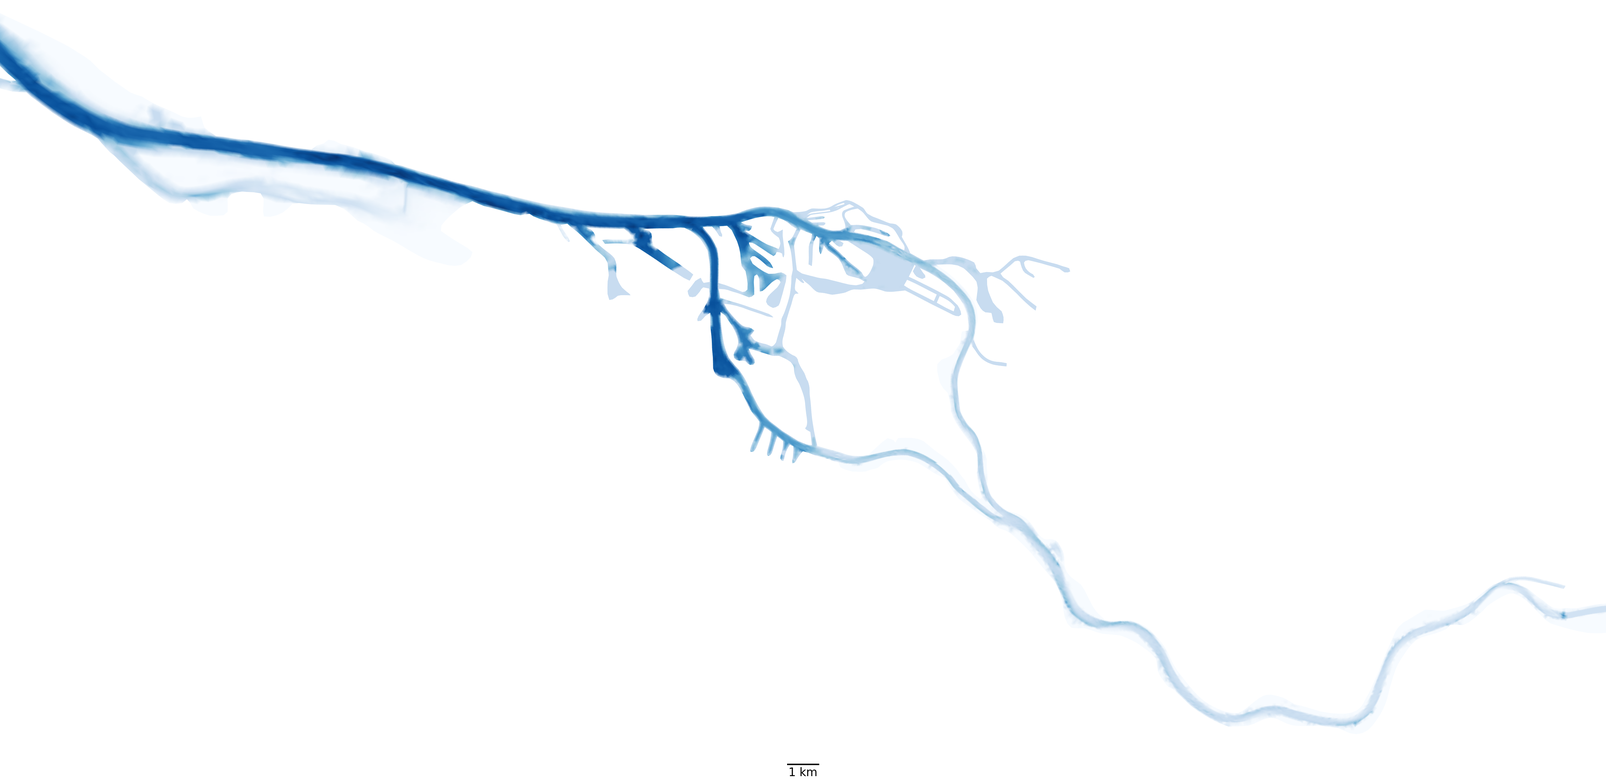
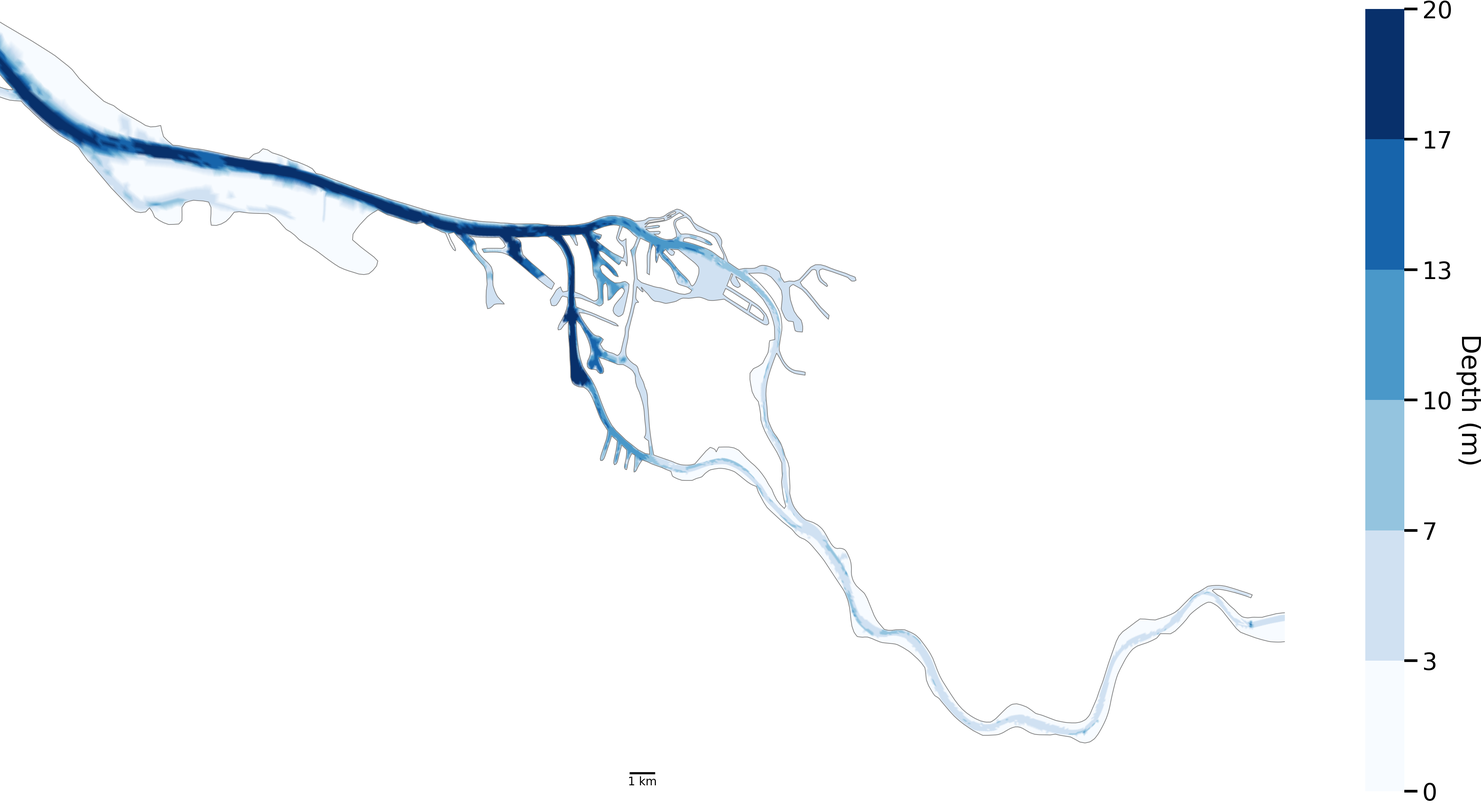
draft sent to ross

Changed region(s): [[0.0, 0.0, 1.0, 0.9272]]

diff --git a/main_text.tex b/main_text.tex
@@ -1,14 +1,14 @@
-
 \section*{Introduction}
 %------------------------------------------------------------------------------
 %------------------------------------------------------------------------------
 
 % \subsection*{Estuaries and Phytoplankton}
 
-\texttt{Add a short paragraph as an outlook/summary of the paper.}
+\texttt{Add a short paragraph as an outlook of the paper? I was told thats what the cool kids do but I feel like thats already in the abstract.}
+
 
 Estuaries are important both for the climate system as well as for anthropogenic use.
-From a climate perspective they are highly productiv relative to their surface area 
+From a climate perspective they are highly productive relative to their surface area 
 which results in large amounts of direct carbon cycling 
 along with their important role as a source of nutrients and hatching grounds for marine ecosystem. (cite)
 They are also strongly anthropogenically influenced through e.g. harbors, diking, dredging, fishing and pollution which can be seen as a stressor on the ecosystem but it also adds an anthropogenic dependency on the ecosystem. (cite)
@@ -56,12 +56,26 @@ While they showed that upstream reseeding is conceptually possible they did so i
 Whether this is an actual realized phenomenon depends on the topology and hydrodynamic of the estuary.
 Nevertheless, it has been shown that both "outgrowing the losses" and "reseeding" are possible retention mechanism under certain conditions.
 
-In (cite) they use a \textbf{particle tracking model} also known as Lagragian model to study Zooplankton movement in the San Francisco Bay.
+In (cite) they use a particle tracking model also known as Lagragian model to study Zooplankton movement in the San Francisco Bay.
 They were able to show  that sinking and diel migration slows the outwashing process and might be beneficial retention tactic.
-However, they did so by ignoring key processes like reproduction, mortality and any stranding or sedimentation processes in an low resolution structured grid model \texttt{specify low-res?}.
+However, they did so by ignoring key processes like reproduction, mortality and any stranding or sedimentation processes in an low resolution structured grid model.
 
+We are examining the Elbe estuary as a case study.
+Like most alluvial estuaries it is relatively flat.
+Similar to other European estuaries it experienced a strong anthropogenic pressure over the last centauries.
+Most notably diking to restrain it to a narrow channel and dreading to improve access to the Hamburg harbor.
+Unlike other major european harbors, the Hamburg harbor is located far inwards roughly 100km away from the coast.
+This causes the river to experience a sudden jump in bathymetry from 5m at border of the city to almost 20m in the harbor (see fig. \ref{fig:bathymetry}). 
+This bathymetric jump is suspected to be the cause of a collapse of the phytoplankton biomass causing an increase in oxygen depletion and high ammonium reminaralization after the bathymetric jump. (cite)
+While major aspects of the along-channel biochemical dynamics have been studied little is known regarding their vertical and shore-to-shore dynamics.
 
-To \textbf{summarize} - several concepts for potential retention mechanisms have been found
+\begin{figure}
+    \includegraphics[width=\columnwidth]{harbor.png}
+    \caption{Bathymetry of the Elbe model around Hamburg. Note the bathymetric jumps from ~5m on the right, upstream side to a short 10m step in the upper harbor area to the ~20m in the lower harbor area all the way to the north sea. Also note that there exists no channel that does not pass through the 10km long exclusively 20m deep area. }
+    \label{fig:bathymetry}
+\end{figure}
+
+To summarize - several concepts for potential retention mechanisms have been found
  and shown to work in certain conditions.
 However, all approaches used major simplification which didn't allow them to study the full picture.
 We developed a new and more realistic approach to study retention using a particle tracking model.
@@ -79,103 +93,91 @@ We examine if such a system can reproduce phytoplankton retention in the Elbe es
 
 \subsubsection*{Particle tracking}
 
-In our study we take a particle tracking approach with a \textbf{lagrangian model} called Oceantracker (cite).
+In our study we take a particle tracking approach with a lagrangian model called Oceantracker (cite).
 Particle tracking offers several advantages for our question:
 While particle tracking on unstructured grids has been relatively computationally expensive until recently (cite).
 it allows us to reuse already validated hydrodynamic models.
-Reusing already computed hydrodynamical models to study tracer like objects with an Lagrangian model  is overall much faster then recalculating the advection-diffusion-equation in an Eularian model.
+Reusing already computed hydrodynamical models to study tracer like objects with an Lagrangian model  is overall much faster than recalculating the advection-diffusion-equation in an Eularian model.
 
 Additionally, because we are simulating individually particles we are able to observe their tracks.
 This makes it much easier and intuitive to interpret the results and allows us to include individual based properties and processes.
 
-\begin{figure}
-    \includegraphics[width=\columnwidth]{Artboard 2.png}
-    \caption{Particle trackl visualisation}
-\end{figure}
-
-\subsubsection*{Data}
-We use the hydrodynamics \textbf{data} of the most recent SCHISM model (cite Johannes Pein).
-It is an three dimensional unstructured  grid model representing the full Elbe estuary from the weir at Geesthacht close to Helgoland including side-channels and the harbor.
+\subsubsection*{Hydrological model}
+We use the hydrodynamics data of the most recent SCHISM model (cite Johannes Pein).
+It is an three dimensional unstructured  grid model representing the full Elbe estuary from the weir at Geesthacht close to Helgoland including side-channels and the harbor (see fig. \ref{fig:model_domain}). 
 % (Look for more details in pein paper that might be interesting)
-It provides a node-based mesh field containing a range of information.
+The model provides a node-based mesh field containing a range of information.
 Most important for our purpose is the water velocity.
 But also salinity, water level, dispersion and many other more technical properties are used (See appendix \texttt{not yet added})
 The year represented in that dataset is 2012 with 1h temporal- and dynamically varying spacial resolution with a median distance between nodes of $\sim60m$.
 
 \begin{figure}
-    \includegraphics[width=\columnwidth]{dfg_foto_wettbewerbg_laurin_legendless_steidle.png}
-    \caption{model domain visualization - full range grid including statistical polygons for later reference and example of a scalar field (e.g. temperature)}
-    \label{fig:statistial polygons}
+    \includegraphics[width=\columnwidth]{dfg_foto_wettbewerbg_laurin_legendless_steidle_small.png}
+    \caption{Map of the full model domain with Geesthacht being the upstream boarder on the right and the Northsea being the downstream edge on the top left. The gray outline indicates the edge of the model domain. Blue and green dots show an example snapshot of a phytoplankton distribution in the model. Blue being floating, green being stranded particles.}
+    \label{fig:model_domain}
 \end{figure}
 
-\subsubsection*{Particle processes}
+\subsubsection*{Particle based processes}
 
-On top of the "blank" particle we add a set of textbf{biological features} to achieve a more realistic behavior.
+On top of the "blank" particle we add a set of biological features to achieve a more realistic behavior.
 The most important one is their ability to reproduce by creating copies of themselves.
-We also remove them under certain biologically unfavorable conditions. Specifically when they are stranded on the shore, starved for light or float in high salinity waters for too long (see appendix).
+This is represented as a constant chance of duplicating a particle.
+We also remove them under certain biologically unfavorable conditions. Specifically when they are stranded on the shore, starved for light or float in high salinity waters for too long.
+More precisely, they are removed if either of the following criteria is met: 
+When they reach high salinity waters implemented as a mortality chance $1\%$ every minute.
+of  in fixed intervals above $10$PSU.
+When they are stranded outside of the water and lie dry for more then $7$ consecutive days.
+When they are starved for light which is represented as a budget of $14$ days 
+where energy is lost in a fixed rate in low-light and gained in high light areas.
+
 A set of vertical movement features is added to model migration behavior. 
-These include a constant vertical velocity i.e. sinking and rising and a diel-migration pattern where they move up and down depending on the phase of the sun.
+This is implemented in two modes. 
+One being a constant vertical velocity i.e. sinking and rising
+The second being diel-migration where they move up and down depending on the phase of the sun.
 A large area of the estuary is very shallow with average water depths of below one meter. 
 We include a simple sedimentation and resuspension model to represent stranding by the tide and also sedimentation model for the water column where resupension is depending on a critical sheer velocity (see appendix).
 
+Particles are stranded and temporarily stuck in place when they cross a model boundary or when their current cell falls dry. 
+Particle are resuspended from the bottom based on a critical sheer velocity model.
+If they are stranded they resuspend as soon as there location is flooded again.
+
+The model also implements dynamic dispersion that is crucial to represent tidal-pumping processes and to allow for more realistic trajectories.
+
 \subsection*{Experimental configurations}
-
-% \begin{figure}
-%     \includegraphics[width=\columnwidth]{plot experimental configuration.pdf}
-%     \caption{2d grid with boxes for the different cases/dimension. 
-%              Same structure as the later sensitivity analysis plot used \ref{fig:retention_results_SA}}
-%     \label{fig:experimental_configuration}
-% \end{figure}
-
 
 The first experiment of this study examines retention success under different scenarios.
 The general idea is to release a population of plankton at the upstream end of the estuary represented by the weir in Geesthacht
 and examine how the population distrubutes itself over the estuary and whether it is able to maintain its population size.
-With this approach we study the effect of several mechanism in a sensitivity analysis. These include reproduction and migration:
-\textit{Reproduction} represented as a chance of duplicating a particle,
-\textit{vertical migration} where two modes have been implemented. 
-A constant up or downward drift and diel migration where the drift speed and direction is based on the phase of the sun.
-The particle \textit{stranding and resuspension} as well as \textit{suspend and resuspension to and from the bottom}
- based on a critical-friction-velocity model.
-Particles are removed if either of the following criteria is met: 
-When they reach high salinity waters implemented as a mortality chance in fixed intervals above $10 PSU$ (see appendix).
-When they are stranded outside of the water and lie dry for more then $7$ consecutive days.
-When they are starved for light which is represented as a budget of $14$ days 
-where energy is lost in a fixed rate in low-light and gained in high light areas.
-The model also implements dynamic dispersion that is crucial to represent tidal-pumping processes 
-and to allow for a realistic trajectories close to boundaries.
+% With this approach we study the effect of two retention mechanism in a sensitivity analysis. These being reproduction and migration.
 
 The initial particle batch that is representing our phytoplankton population is released at the beginning of the year in a volume at the weir in Geesthacht which marks the beginning of the Estuary.
 We evaluate their retention success by counting the amount of plankton in different regions in the estuary over time.
 If the population is growing at the end of the year we consider them "successfully retained".
-Population changes are measured at the end of the year relative to the population size after after an initial spin up time of three months where most of the initial batch has been washed out and the population typically is at its minimum.
-
+Population changes are measured at the end of the year relative to the population size after after an initial spin up time of three months where most of the initial batch has been washed out and the population is typically at its minimum.
 
 For each particle we log their distance traveled, age, water depth, and status - whether they are drifting, stranded on the shore or bottom.
-This allows us to compare the successful (died older then three months) and unsuccessful (died younger then then three months ) plankton.
+This allows us to compare the successful (died older then three months) and unsuccessful (died younger then three months ) plankton.
 The logged observables are measured every 12 hours starting at midnight.
 
 \medskip
 
-We use this set-up in a range of scenarios and compare them to each other.
+We use this set-up in a range of scenarios.
 We call the first and simplest scenario "dust". 
-Here we don't allow for any reproduction and give all particles a neutral buoyancy.
+Here we don not allow for any reproduction and give all particles a neutral buoyancy.
 Hence they are drifting like dust similar to a passive tracer
 This is our reference for any retention strategy. 
-For a retention strategy to be considered beneficial it must perform better then these passive tracers.
+For a retention strategy to be considered beneficial it must perform better than these passive tracers.
 
-In the second scenario referred to as "migration" reproduction is re-enabled with a range of different growth rates 
-and a range of different buoyancies i.e. vertical velocities is given to the plankton.
+In the second scenario referred to as "migration" reproduction is re-enabled.
+In this scenario we study the effect of different growth rates and buoyancies i.e. vertical velocities on the phytoplankton population in a sensitivity analysis.
 
 The third scenario has been added for illustration purposes.
 Here, we use the same set-up as in the second scenario with the only exception of disabling reproduction for particles stranded on the shores of the estuaries.
-We call this scenario "ready-for-liftoff" (\texttt{silly placeholder name})
-\label{txt:ready-for-liftoff}
 
-\subsubsection*{upstream migration}
+% \subsubsection*{upstream migration}
 
-In the second and minor experiment we test the hypothesis of "reseeding" - whether organisms can recolonize previously lost upstream habitats.
-\texttt{This is currently not included anymore. Seemed to uninteresting and far off track. What do you think?}
+% In the second and minor experiment we test the hypothesis of "reseeding" - whether organisms can recolonize previously lost upstream habitats.
+% \texttt{This is currently not included anymore. Seemed to uninteresting and far off track. What do you think?}
 
 
 \section*{Results}
@@ -187,33 +189,32 @@ In the second and minor experiment we test the hypothesis of "reseeding" - wheth
 \subsubsection*{Scenario: dust, mono- and diel migration}
 
 \begin{figure}
-    \includegraphics[width=\columnwidth]{diel_success.png}
-    \caption[]{relative population changes indication retention success for a set of scenarios with monotonic vertical migration}
+    \includegraphics[width=\columnwidth]{retention_success_sa_mono.png}
+    \caption[]{Relative population changes for the monotonic migration scenarios. Positive vertical velocities indicate an upwards drift direction. Positive population changes indicate a retention success (shown in green) while negative population changes predict a long term loss of the population (shown in brown).}
     \label{fig:monotonic_retention_success}
 \end{figure}
 \begin{figure}
-    \includegraphics[width=\columnwidth]{diel.png}
-    \caption[]{relative population changes indication retention success for a set of scenarios with diel vertical migration}
+    \includegraphics[width=\columnwidth]{retention_success_sa_diel.png}
+    \caption[]{Relative population changes for the diel migration scenarios. Positive vertical velocities indicate an upwards drift direction. Positive population changes indicate a retention success (shown in green) while negative population changes predict a long term loss of the population (shown in brown).}
     \label{fig:diel_retention_success}
 \end{figure}
 
 The results of the retention experiments are visualized as heatmaps in fig. \ref{fig:monotonic_retention_success} and \ref{fig:diel_retention_success}.
 Fig. \ref{fig:monotonic_retention_success} shows the results for the monotonic vertical migration scenarios e.g. constant sinking or rising.
 Fig. \ref{fig:diel_retention_success} shows the results for the diel vertical migration scenarios. For the monotonic case a positive vertical velocity indicates an upwards motion. For the the diel case a positive vertical velocity means that the particles are moving upwards during the day and downwards during the night.
-Each pixel in the heatmap represents a scenario with a specific vertical velocity and a specific reproduction rate. The coloring indicates the relative population change after one year. A positive (green) value is consider a successful retention while a negative (red) value indicates that the population is going to die out.
+Each pixel in the heatmap represents a scenario with a specific vertical velocity and a specific reproduction rate. The coloring indicates the relative population change after one year. A positive (green) value is consider a successful retention while a negative (brown) value indicates that the population is going to die out.
 
 The first thing that we wish to highlight is that the population successfully retains itself in certain scenarios. For the case of the monotonic migration we see a trend that the populations with higher positive velocities and higher growth rates are more successful in retaining themselves.
 For the case of the diel migration we see a trend to higher vertical velocities both upwards and downwards.
 
 Another thing that we would like to highlight is that populations with no reproduction are all unsuccessful in retaining themselves.
 
-We would also like to note that a net-zero-growth rates represent the cases in which the growth is equal to the mortality.
+We would also like to note that a net-zero-growth rates represent the cases in which the growth is equal to the net losses.
 Hence, the white pixels or the boundary between green and brown can be interpreted as an estimate for the total relative losses due to outwashing, dry-out when stranded, and light starvation.
 
 \medskip
 
-In the scenario "ready-for-liftoff" we examined the retention success for the monotonic case with reproduction disabled for non-moving particles - e.g. stranded or sedimented particles.
-For this scenario none of the tested parameters was able to successfully retain the population.
+In the scenario where we disabled reproduction for stranded particles we found that the population was unable to retain itself in all tested parameterizations.
 
 
 
@@ -222,8 +223,8 @@ For this scenario none of the tested parameters was able to successfully retain 
 \subsubsection*{Where do they survive?}
 
 \begin{figure}
-    \includegraphics[width=\columnwidth]{dbf_bar.png}
-    \caption[]{Boxplot of long-vs-short showing water depth}
+    \includegraphics[width=\columnwidth]{retention_boxplot.png}
+    \caption[]{Box and violing plot showing the vertical distribution of particles.  Short-living are those younger then 3 months and long-living all those older then that. Depth is measure relative to the current water surface with positive numbers being above the water surface i.e. stranded on the shore.}
     \label{fig:migration-long-vs-short}
 \end{figure}
 
@@ -234,7 +235,7 @@ We can clearly see that the long living subset predominantly lives in shallower 
 
 \begin{figure}
     \includegraphics[width=\columnwidth]{heatmap.png}
-    \caption[]{heatmap of long-living to short-living-particles}
+    \caption[]{Hexbin heatmap showing average particle age per bin showing the brackish area of the Elbe downstream of the harbor.  Yellowish colors indicate an average age of over three months. \texttt{add labels and maybe use a different colormap?}}
     \label{fig:migration-long-vs-short-heatmap}
 \end{figure}
 
@@ -288,17 +289,18 @@ We assume that this is for the following reasons.
 Plankton that lives in this area falls dry on the shore on a regularly due to the tides basis. Hence, they are not moving downstream for a large portion of the day.
 We further see that positively buoyent plankton is more successful in retaining themselves. 
 This is likely due to the fact that they are more likely be washed up high up at shore where the water reaches them less frequently.
-This effect is emphasized in flatter regions where distances between the driftline and waters that don't fall dry is large, increasing the distance that the plankton has to travel without settling to be washed out.
+This effect is emphasized in flatter regions.
+Here the distance between the wash margin and deeper waters that do not fall dry is larger. 
 We assume that this effect would be further emphasized if we were to represent stokes drifts in our model even though wind forcing on the surface water is included.
 
 Initially we expected that negatively buoyant plankton would be more successful in retaining themselves.
 Sinking particles have a reduced downstream velocity as they tend to get stuck on the ground more often.
 Additionally, the bottom water layer in the Elbe typically has higher upstream velocity comparts to the upper water column.
-However, they still seem to be less successful then positively buoyant particles.
+However, they still seem to be less successful than positively buoyant particles.
 Examining our model we think  that this is because they tend to quickly aggregate in deep waters with little to no light where they are unable to sustain themselves and ultimately die out.
 This is hinting at the negative impact of dredging on sinking plankton as it both increases the volume of deep water and increases turbidity reducing the volume of illuminated water.
 
-It is interesting to see that in case of diel migration success does not seem to depend on whether they are moving up during the day or the night.
+We find it interesting to see that in the case of diel migration success does not seem to depend on whether they are moving up during the day or the night.
 We assume that this is to a large part due to them only surviving in shallow near-shore waters where light limitation does not play a role.
 We think the reason for higher success with higher vertical velocities is similar to the constant vertical velocity case.
 When the upwards diel migration aligns with a high tide the particles are more likely to be stranded far out onto the shore decreasing their risk to be washed out quickly.
@@ -310,7 +312,7 @@ We therefore think that a more realistic light limitation model might introduce 
 \subsection*{Limitations of the model}
 
 One major limitation of our model is the lack of nutrient limitation or the lack of a realistic ecosystem model in general.
-This could have been done by coupling our Lagrangian model online to an Eularian model that would have advected changes in concentrations fields by biotic activity throughout the model domain
+This could have been done by coupling our Lagrangian model online to an Eularian model that would have advected changes in concentrations fields by biotic activity throughout the model domain.
 However, this would have drastically increased both developing and computational time to a point where it would have been infeasible in our time frame and due to the lack of appropriate validation data.
 The key draw back of this is that growth rates could only be modeled as a constant rate assuming an "ad libitum" environment at all times.
 This introduces systematic errors in the population growth as areas which are beneficial for retention might in reality quickly run out of nutrients and could not sustain the growth conditions necessary to sustain the local population.

diff --git a/ms.tex b/ms.tex
@@ -42,7 +42,8 @@
 \date{\small\today}                                        % kein Datum auf 1. Seite
 \title{
 	\vspace{-20mm}\textbf{	\large 
-	\texttt{Placeholder Title:}  Retention}
+	Phytoplankton Retention Mechanisms in Estuaries: A Case Study of the Elbe Estuary
+	}
 	}
 \author{
 	Laurin Steidle\(^1\), Ross Vennel, Jana Hinners \\
@@ -65,16 +66,13 @@
 				\smallskip
 			\end{center}
 			
-			% \begin{figure}
-			% 	\includegraphics[width=\columnwidth]{picto visual abstract.pdf}
-			% \end{figure}
-			\texttt{placeholder abstract: }Estuaries are a challenging environment for plankton.
-			Gradients are steep and currents are strong.
-			This make retention mechanisms are crucial for their survival.
-			However, very little experimental and theoretical evidence has been gathered on the mechanism of phytoplankton retention.
-			We will conduct a model study.
-			First we will show the importance of retention mechanism for plankton in the Elbe.
-			Secondly we will study different retention mechanism and comment on their importance.
+			Phytoplankton are essential for estuarine ecosystems.
+			However, little is known how estuarine plankton retain themselves in an environment that continuously washes them into unfavorable marine waters.
+			We present a new individual-based Lagrangian model of the Elbe estuary examining several retention mechanisms - most importantly vertical migration and tidal stranding.
+			We further examine their ability to outgrow losses and provide first estimates on outwashing losses.
+			We found that shallow waters are crucial for the long term for the survival of the phytoplankton population.
+			\texttt{I feel like it sounds a bit dry. Maybe sparkle in a bit more excitement?}
+			
 			\vspace{1cm}
 		\end{abstract}
   	\end{@twocolumnfalse}
